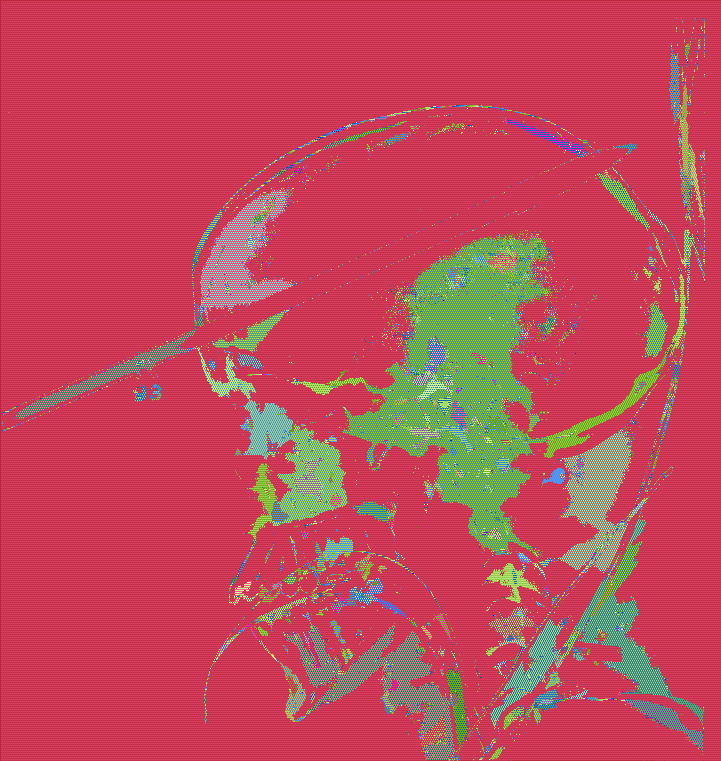
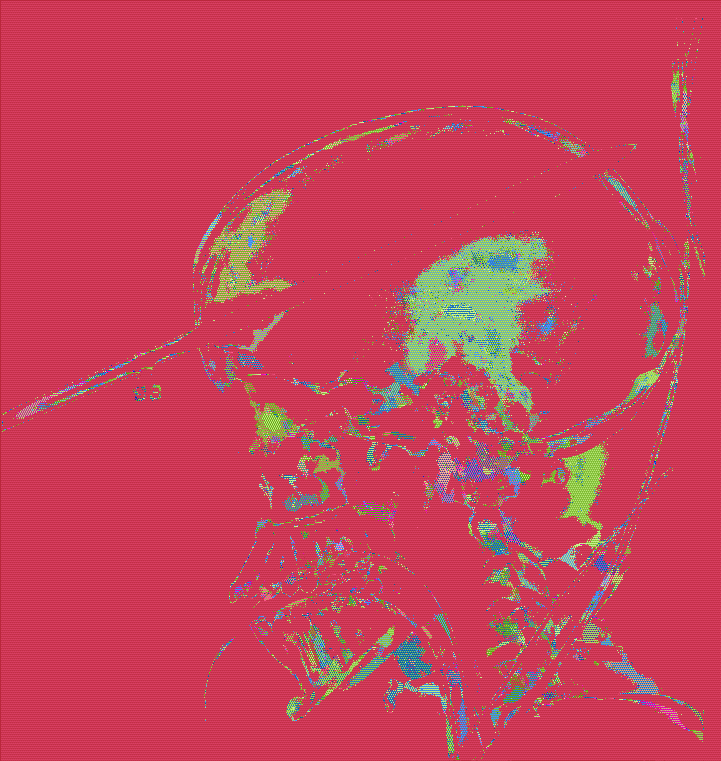
SOBEL 10 96

diff --git a/1course.c b/1course.c
@@ -68,7 +68,7 @@ int is_close(int r1, int g1, int b1, int a1, int r2, int g2, int b2, int a2) {
 int is_black(int r, int g, int b) {
   // Here is the place for experiments and improvments
       int gray=(r+g+b)/3;
-      if ( gray < 64 ) return 1;
+      if ( gray < 96 ) return 1;
       else return 0;
 }
 
